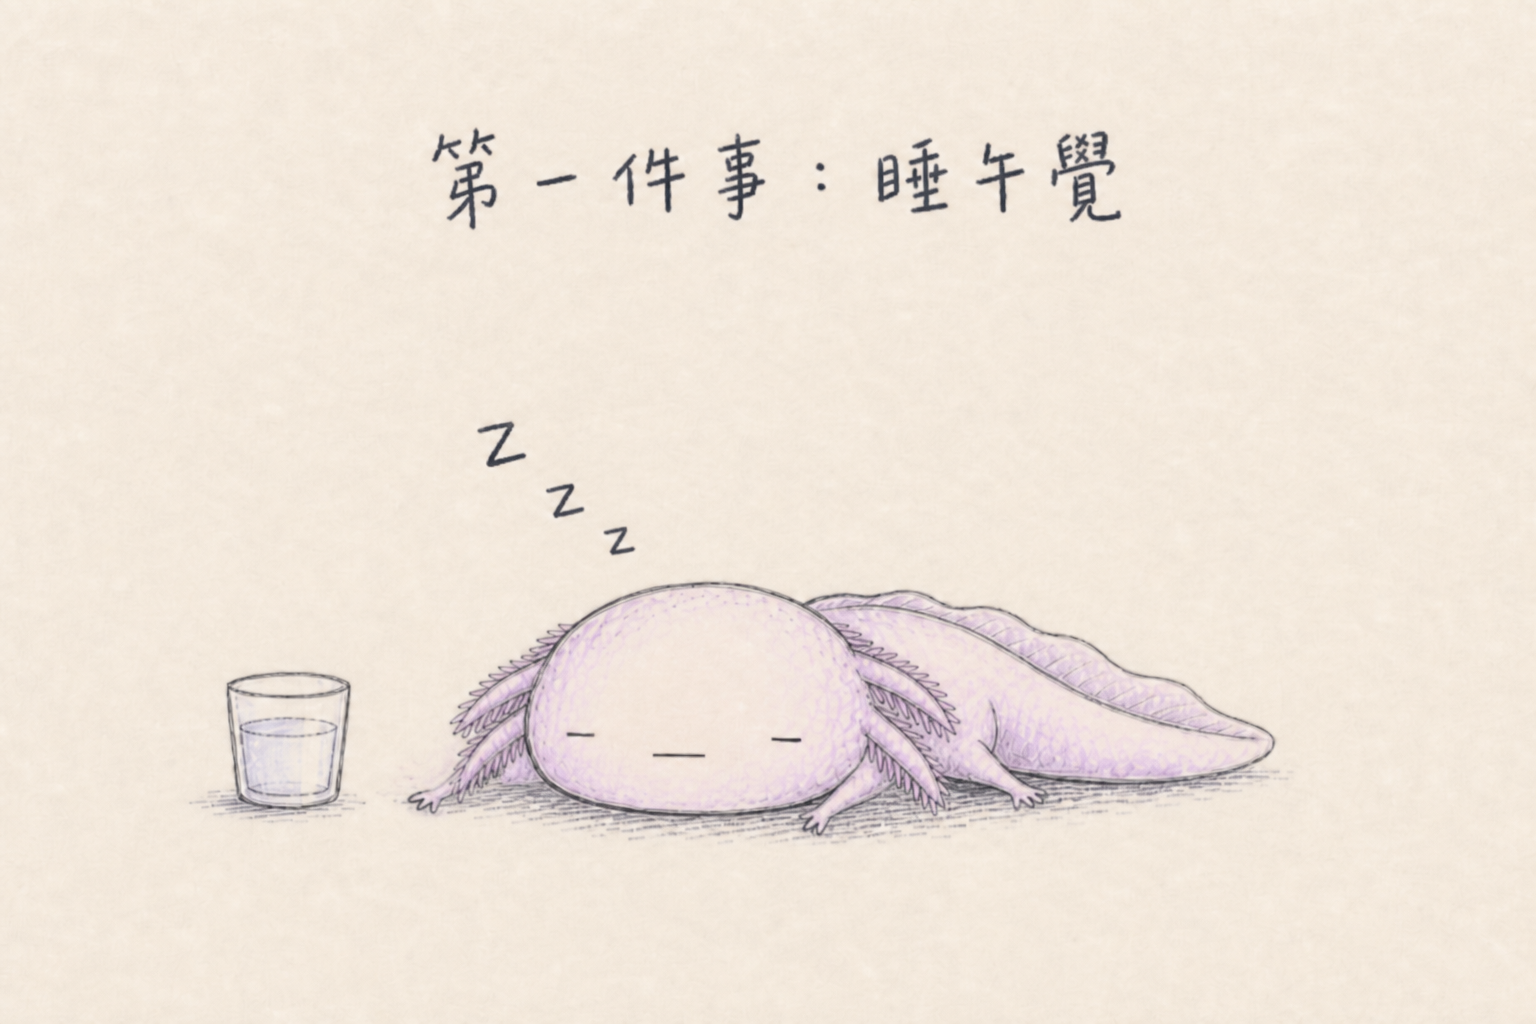
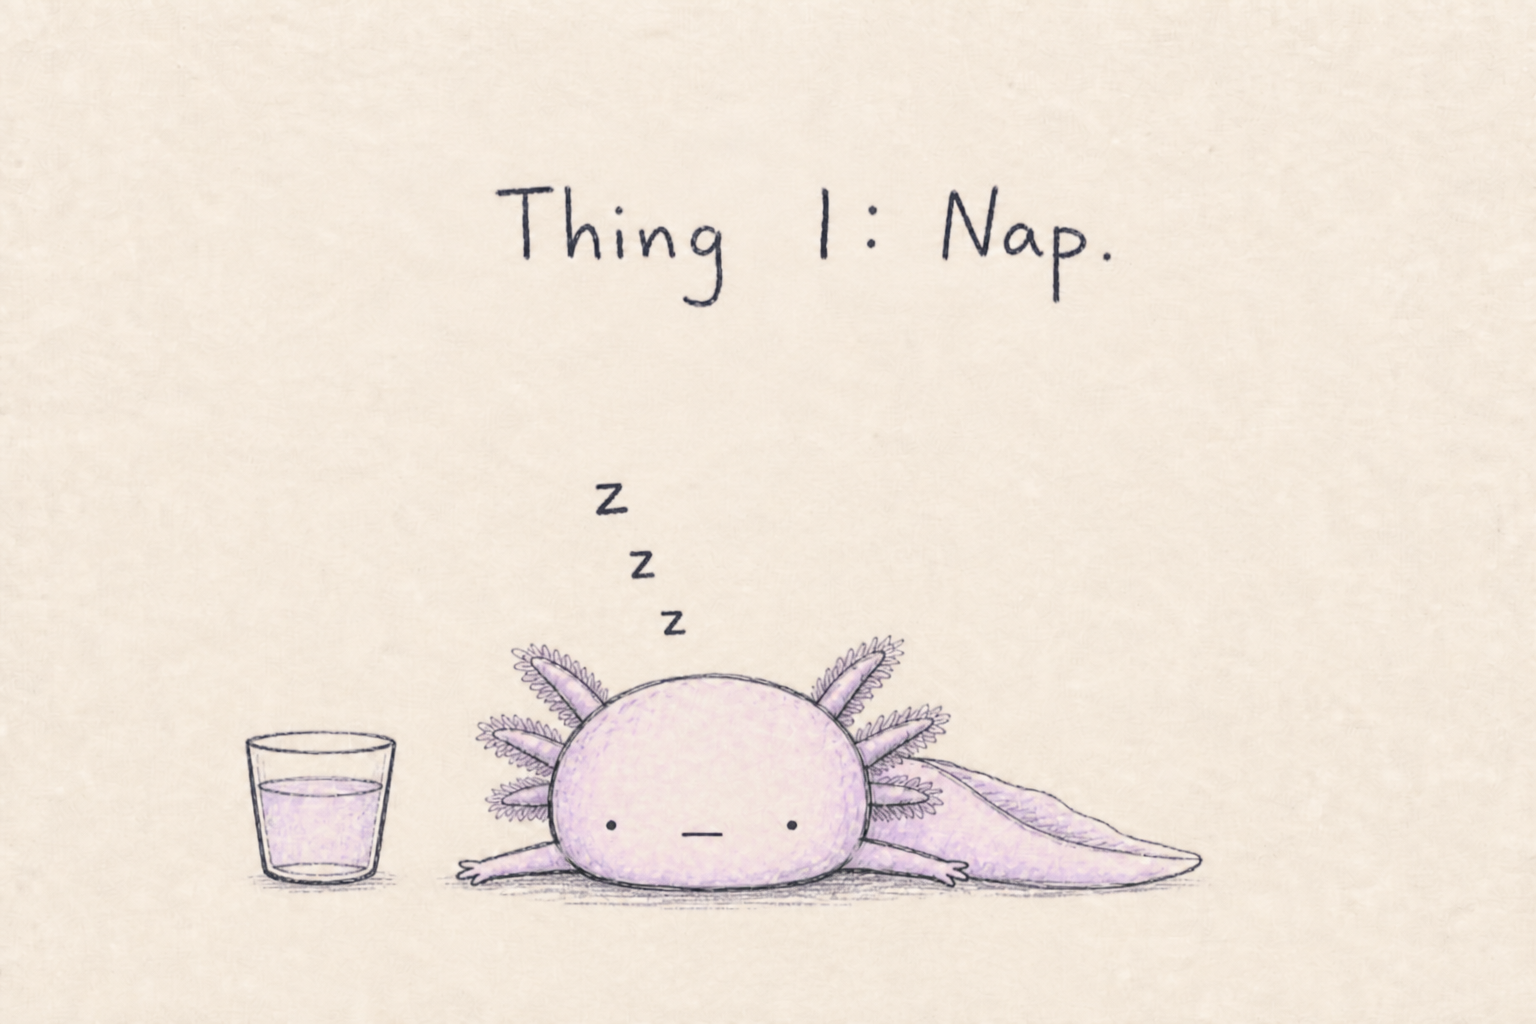
Slide 2: 1:1 reference body proportions, English Thing 1 Nap

diff --git a/docs/ig-day2-comic-zh-TW.md b/docs/ig-day2-comic-zh-TW.md
@@ -22,13 +22,12 @@
 
 | 項目 | 內容 |
 |------|------|
-| 姿勢 | **趴地熟睡**（肚皮貼地）— 身體參考品牌睡姿圖 |
-| 手腳 | **極細、極短、幼幼的**手腳（與參考圖相同比例，向兩側微張） |
+| 身體比例 | **1:1 複製**品牌睡姿參考圖（頭身長短、**四肢**粗細長度、尾巴、外鰓） |
+| 姿勢 | **趴地熟睡**（肚皮貼地） |
 | 道具 | 水杯**放在旁邊地上** |
-| 外鰓 | **放鬆垂下** |
-| 睡眠符號 | 頭上 **Zzz**（**不要**空白思考雲） |
-| 手寫字 | **第一件事：睡午覺。** |
-| English | Thing 1: Nap. |
+| 睡眠符號 | 頭上 **Zzz**（**無**思考雲） |
+| 手寫字（圖上） | **Thing 1: Nap.**（英文） |
+| 參考檔 | `png/axo-pen-day1.png`（睡姿解剖） |
 | 檔案 | `png/axo-pen-day2-slide2.png` |
 
 ---

diff --git a/docs/ig-captions-zh-TW.md b/docs/ig-captions-zh-TW.md
@@ -101,7 +101,7 @@ I am doing nothing today, and thinking nothing. 🫠
 | 格 | 畫面 | 手寫字 |
 |----|------|--------|
 | **Slide 1** | 雙腳站立、手拿水杯、豆豆眼直視前方 | 今天我要做很多事。 |
-| **Slide 2** | 趴地熟睡、Zzz、杯放旁邊、幼手幼腳、**無思考雲** | 第一件事：睡午覺。 |
+| **Slide 2** | 1:1 睡姿比例、熟睡 Zzz、杯在旁、英文圖字 | **Thing 1: Nap.** |
 
 ### 繁中 Caption（複製用）
 
